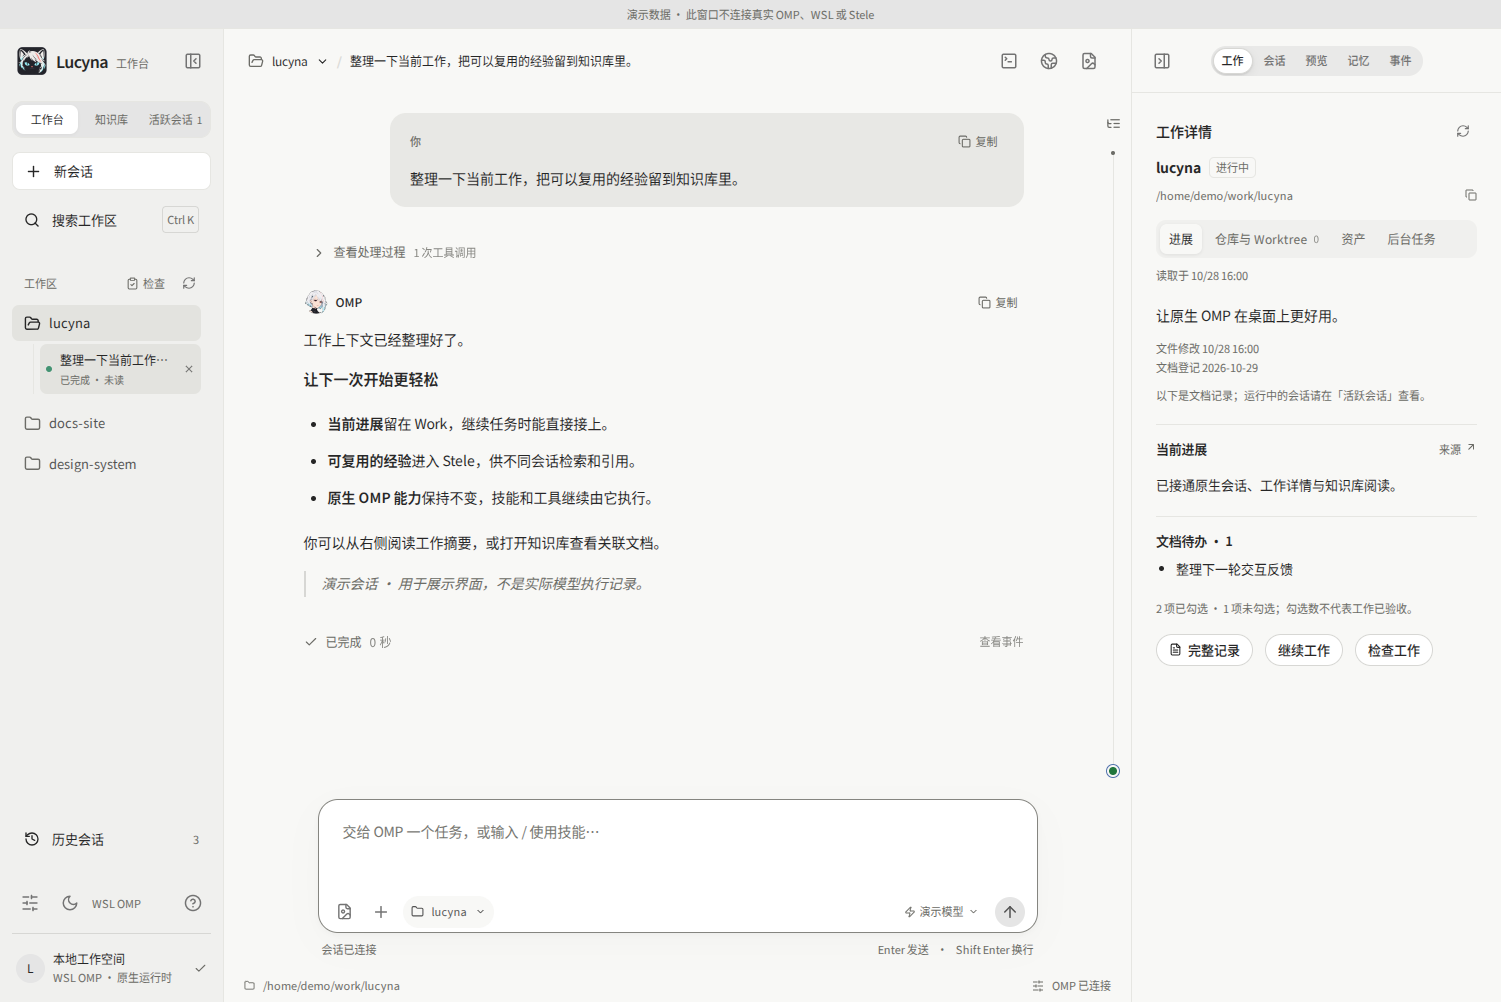
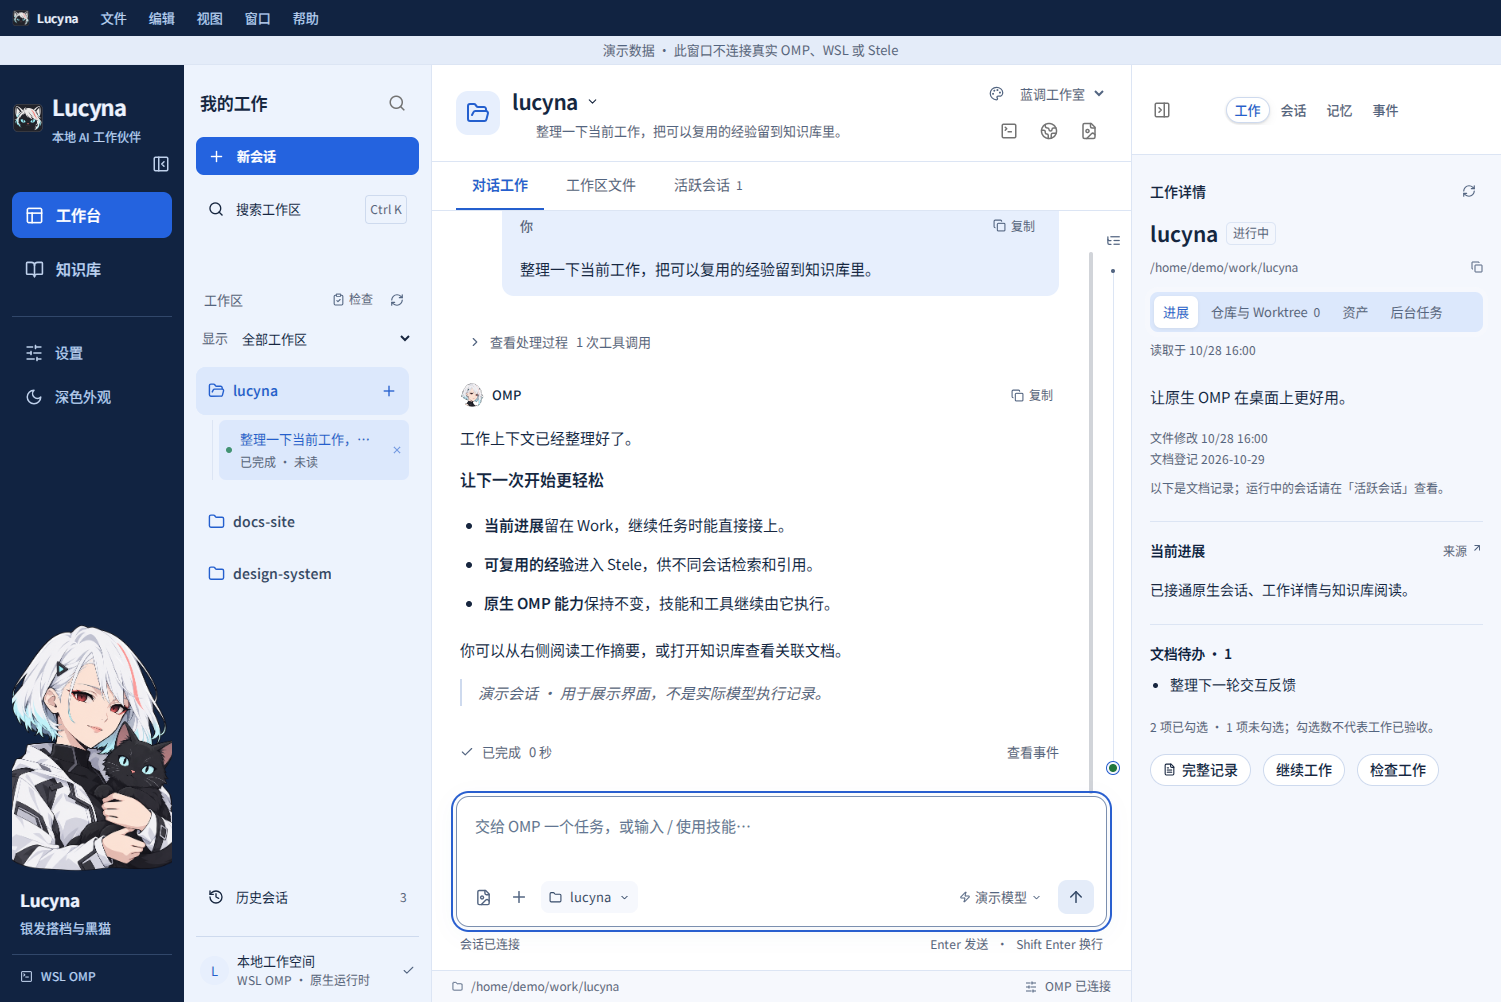
docs: refresh README and workbench screenshots

diff --git a/README.md b/README.md
@@ -2,13 +2,13 @@
   <img src="src/assets/app-icon.png" width="112" alt="Lucyna — silver-haired companion and black cat" />
   <h1>Lucyna</h1>
   <p><strong>让原生 OMP，拥有一个桌面工作台。</strong></p>
-  <p>A Windows desktop workbench for native OMP, WSL workspaces and lasting knowledge.</p>
+  <p>A Windows desktop workbench for native OMP, local and SSH workspaces, and long-term knowledge.</p>
   <p><a href="docs/getting-started.md">快速开始</a> · <a href="docs/features.md">功能列表</a> · <a href="docs/architecture.md">架构</a> · <a href="docs/development.md">开发</a></p>
 </div>
 
-![Lucyna 工作台](docs/screenshots/workbench-light.png)
+![Lucyna 蓝调工作室的对话工作台](docs/screenshots/workbench-light.png)
 
-Lucyna 是一个围绕 [oh-my-pi / OMP](https://github.com/can1357/oh-my-pi) 的 Windows 桌面客户端：用可视化界面管理工作区、并行会话、终端、文件阅读和知识引用。模型、agent loop、技能、工具调用和 session 仍由 **原生 OMP** 执行。
+Lucyna 是 [oh-my-pi / OMP](https://github.com/can1357/oh-my-pi) 的 Windows 桌面工作台。你可以连接本机 WSL、Windows 或 SSH 主机上的 OMP，在一个窗口里处理对话、工作区文件和长期知识。模型、agent loop、技能、工具调用和 session 由 **原生 OMP** 执行。
 
 界面借鉴 [Cindy](https://github.com/makecindy/cindy)，复用部分带许可证的 UI 组件；Work 承载当前工作上下文，Stele 承载 L3 长期知识。银发女孩与黑猫是 Lucyna 的视觉伙伴，也可以作为桌面像素宠物陪伴工作。
 
@@ -18,17 +18,24 @@ Lucyna 是一个围绕 [oh-my-pi / OMP](https://github.com/can1357/oh-my-pi) 的
 
 | 场景 | 能力 |
 | --- | --- |
-| 多个工作同时推进 | 多 work / 多 session 并行，切换保留任务、草稿、终端和状态 |
-| 使用自己的 OMP | WSL / Windows 运行时切换，原生配置、技能补全、模型选择、交互提问与停止 |
+| 多个工作同时推进 | 从「新建 Work」发起 WSL Work，切换工作区时保留任务、草稿和状态 |
+| 查看跨工作区任务 | 「工作台 → 活跃会话」集中查看运行中、已完成未读和待处理的会话，可打开、停止或结束连接 |
+| 使用自己的 OMP | WSL、Windows 或 SSH 运行时，原生配置、技能补全、模型选择、交互提问与停止 |
 | 接着之前的任务做 | 历史搜索、会话导入副本、续聊和原生 journal 归属校验 |
-| 在上下文中阅读 | 文件列表、Markdown/GFM、语法高亮、公式、Mermaid、图片；网页链接在系统默认浏览器打开 |
-| 留下长期知识 | Stele 文档、来源与标签筛选、关联阅读、候选知识、待核实、引用到草稿 |
-| 看清任务状态 | 工具过程、事件、只读工作区诊断；登记偏差不会阻断阅读与终端 |
+| 浏览文件与管理 Git | 在「工作区文件」阅读 Markdown、代码和图表，查看仓库差异、暂存、提交及管理分支与 Worktree |
+| 留下长期知识 | 内置 Stele 提供文档阅读与编辑、证据检索、图谱和会话引用。配置辅助模型后可从空闲 Work 的笔记与日志提炼可复用经验 |
+| 看清任务状态 | 原生工具过程、子代理与后台任务进度、事件时间线、工作区诊断 |
 | 桌面上有个伙伴 | 两种外观、四种动画状态、32 帧像素素材、置顶、托盘、状态提示和隐私设置 |
 
-完整范围和限制见 [功能与当前边界](docs/features.md)。客户端需要保持运行才能维持后台会话；Work 技能与 Stele 服务需单独准备。
+本机普通会话由客户端持有，SSH 会话由远端 host 持有。WSL Work 后台任务由独立服务执行，关闭窗口后仍可运行。新建 Work 与后台任务需要对应的 WSL 技能和运行环境。详见 [功能与当前边界](docs/features.md) 和 [Work 知识沉淀](docs/knowledge-consolidation.md)。
 
 ## 界面一览
+
+### 活跃会话
+
+工作台内的「对话工作」「工作区文件」「活跃会话」可以直接切换。活跃会话汇总所有工作区的连接，便于查看进度、处理待办或回到对应的对话。
+
+![工作台内的活跃会话与状态筛选](docs/screenshots/active-sessions.png)
 
 ### 知识库
 
@@ -36,9 +43,20 @@ Lucyna 是一个围绕 [oh-my-pi / OMP](https://github.com/can1357/oh-my-pi) 的
 
 ![知识库与关联阅读](docs/screenshots/knowledge.png)
 
-### 深色工作台
+### 四套视觉主题
 
-![深色工作台](docs/screenshots/workbench-dark.png)
+经典原色、蓝调工作室、纸页研读室和像素工作室可在左侧「视觉主题」或设置中切换。每套主题都支持浅色和深色，切换时保留当前会话与草稿。页首展示浅色蓝调工作室。
+
+<details>
+<summary>查看另外三套主题与深色蓝调</summary>
+
+| 经典原色 | 纸页研读室 |
+| --- | --- |
+| ![经典原色工作台](docs/screenshots/workbench-classic.png) | ![纸页研读室工作台](docs/screenshots/workbench-folio.png) |
+| **像素工作室** | **蓝调工作室 · 深色** |
+| ![像素工作室工作台](docs/screenshots/workbench-pixel.png) | ![深色蓝调工作台](docs/screenshots/workbench-dark.png) |
+
+</details>
 
 ### 文件与 Markdown
 
@@ -74,7 +92,7 @@ npm start
 
 `runtime.local.json` 不上传 Git。模型凭证继续放在原生 OMP profile。客户端设置页可切换 OMP 运行时和模型；WSL 的发行版、用户和工作根在本地 JSON 中配置。
 
-**首次使用请看 [完整安装与配置指南](docs/getting-started.md)**，包括最小 demo work、历史存储、Windows 模式、可选 Work/Stele 集成和回退。当前仓库不提供一键安装包，也不随源码分发个人技能、会话、认证或 Stele 服务。
+**首次使用请看 [完整安装与配置指南](docs/getting-started.md)**，包括最小 demo work、历史存储、Windows 模式、SSH 主机、内置知识引擎及可选的 Work + Stele 集成。当前为源码安装，个人技能、会话和认证由使用者自行配置。
 
 ## 原生能力与客户端的分工
 
